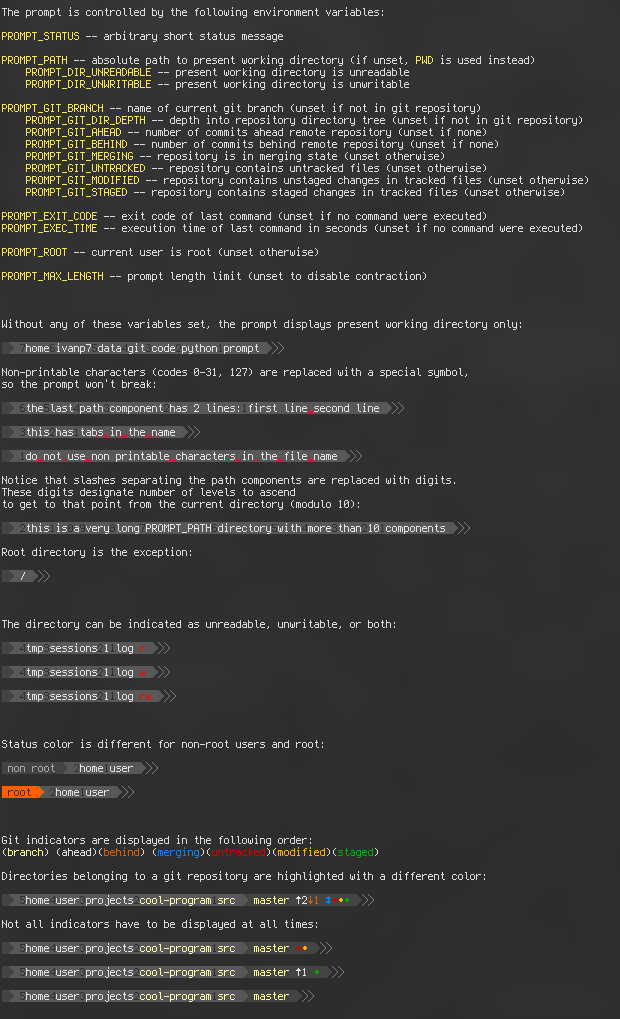
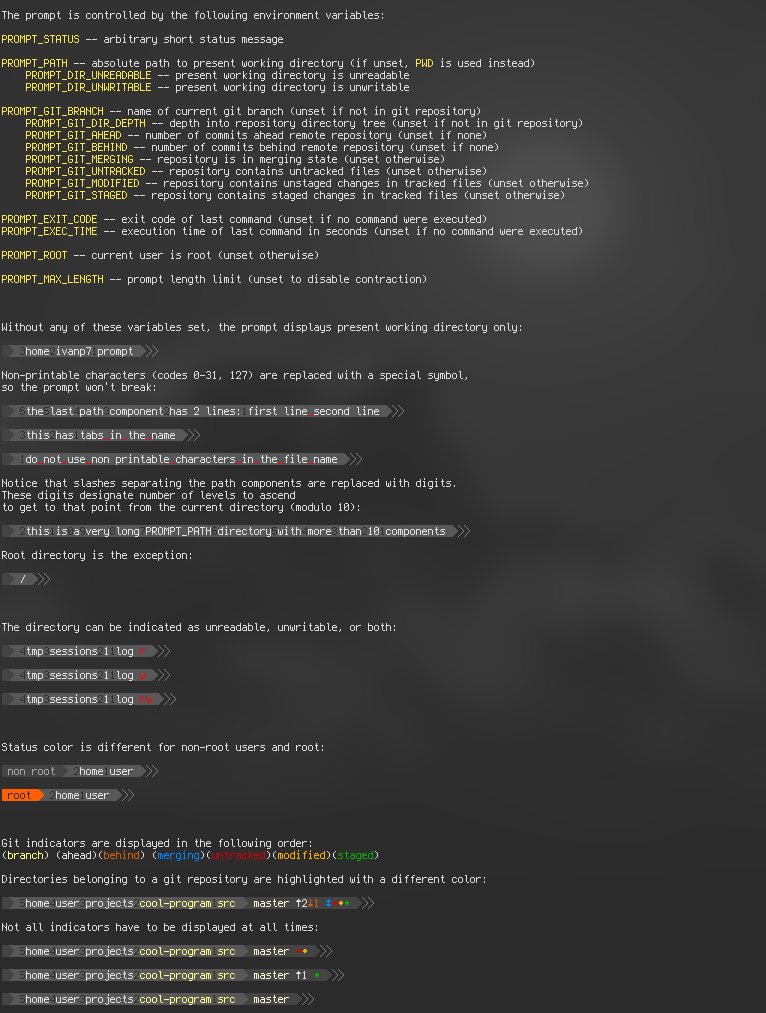
feat(prompt.py): update the color theme

diff --git a/prompt.py b/prompt.py
@@ -24,7 +24,7 @@ DEFAULT_CHAR_PATH_DIR_UNREADABLE = "r" # style['ch_path_dir_unreadable']
 DEFAULT_CHAR_PATH_DIR_UNWRITABLE = "w" # style['ch_path_dir_unwritable']
 
 DEFAULT_COLOR_PATH_DIR_FG = 254      # style['col_path_dir_fg']
-DEFAULT_COLOR_PATH_GIT_DIR_FG = 229  # style['col_path_git_dir_fg']
+DEFAULT_COLOR_PATH_GIT_DIR_FG = 228  # style['col_path_git_dir_fg']
 DEFAULT_COLOR_PATH_SEP_FG = 236      # style['col_path_sep_fg']
 DEFAULT_COLOR_PATH_OMIT_FG = 200     # style['col_path_omit_fg']
 DEFAULT_COLOR_PATH_NONPRINT_FG = 196 # style['col_path_nonprint_fg']
@@ -43,7 +43,7 @@ DEFAULT_CHAR_GIT_UNTRACKED = "•" # style['ch_git_untracked']
 DEFAULT_CHAR_GIT_MODIFIED = "•"  # style['ch_git_modified']
 DEFAULT_CHAR_GIT_STAGED = "•"    # style['ch_git_staged']
 
-DEFAULT_COLOR_GIT_BRANCH_FG = 228    # style['col_git_branch_fg']
+DEFAULT_COLOR_GIT_BRANCH_FG = 230    # style['col_git_branch_fg']
 DEFAULT_COLOR_GIT_AHEAD_FG = 254     # style['col_git_ahead_fg']
 DEFAULT_COLOR_GIT_BEHIND_FG = 166    # style['col_git_behind_fg']
 DEFAULT_COLOR_GIT_MERGING_FG = 33    # style['col_git_merging_fg']
